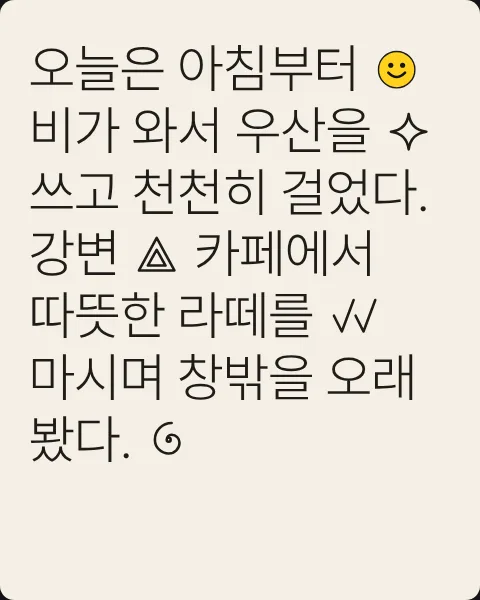
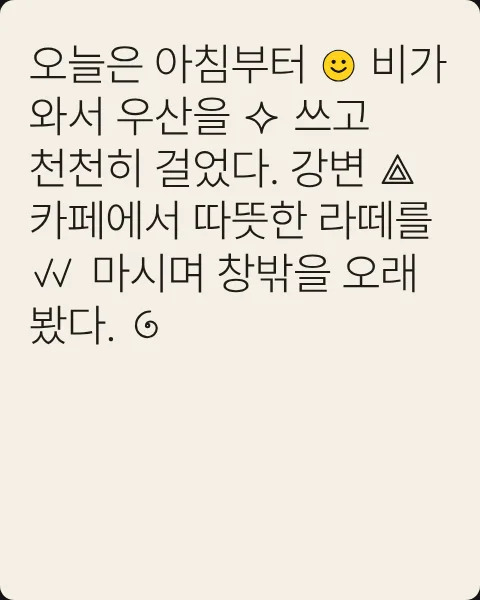
95차: 디자인 템플릿 글자 크기 = 한 장 안에서 채우는 양 5단계(60·72·85·93·100%, 긴 글도 단계마다 바뀜), 라벨 조각 = 2~4어절 조각 · 두 라벨이 한 줄에 엇갈려 놓이기도
Claude-Session: https://claude.ai/code/session_018YFXtycg7XUaka8AzxDZiV

diff --git a/app/new/tpl/label/tpl.js b/app/new/tpl/label/tpl.js
@@ -1,5 +1,5 @@
 // 템플릿 틀: 라벨 조각 (디자인, 11-25 94차). 앤드류 레퍼런스(빨간 바탕 흰 라벨 포스터)의 느낌: 문장마다 끊어 흰 띠 라벨에 담고 자리를 흩어요.
-// 문장 = 줄바꿈 · 문장부호 · '~다/~요' 끝. 라벨 안 줄은 짧게 (셔플마다 조금씩 다르게). 첫 문장은 조금 크게. 굵고 좁게, 줄 간격 빽빽하게.
+// 라벨 = 2~4어절 조각 (95차, 셔플마다 다르게), 문장 끝(줄바꿈 · 문장부호 · '~다/~요')에선 늘 끊어요 → 짧은 글도 여러 조각. 라벨 안 줄은 짧게. 첫 라벨은 조금 크게. 굵고 좁게, 줄 간격 빽빽하게.
 // 자리: 위에서부터 쌓되 왼쪽 · 들여쓰기 · 가운데 · 오른쪽으로 흩고 사이 간격도 랜덤. 셔플 = 자리 · 간격 · 줄 나눔.
 // 색: 바탕 = 조합 배경색, 라벨 = 흰색 (밝은 바탕이면 조합 글자색), 라벨 글자 = 거의 검정 (밝은 바탕이면 바탕색). 날짜 · 장소를 켜면 작은 라벨 하나 (/// 사이).
 // 쓰는 동안(글 상자에 커서)엔 반듯한 글, 키보드를 내리면 라벨 (글 위에 한 겹). 보기 카드 · 저장 그림은 라벨만 보여요. 늘 한 장에 들어가게 작아져요
@@ -29,9 +29,17 @@ function linesOf(s, lim) {
   if (cur) out.push(cur);
   return out;
 }
+// 문장 → 2~4어절 조각 (남은 한 어절은 앞 조각에 붙여요)
+function pieces(text, r) {
+  const out = [];
+  sentences(text).forEach(s => {
+    const ws = s.split(' ');
+    for (let i = 0; i < ws.length;) { let n = 2 + Math.floor(r() * 3); if (ws.length - (i + n) === 1) n++; out.push(ws.slice(i, i + n).join(' ')); i += n; }
+  });
+  return out;
+}
 function layerHtml(text, seed, extra) {
-  const r = rng(((seed || 1) ^ 0x2545f491) >>> 0), list = sentences(text).map((t, i) => [t, i === 0 ? 'big' : '']);
-  const lim = 7 + Math.floor(r() * 4);
+  const r = rng(((seed || 1) ^ 0x2545f491) >>> 0), lim = 7 + Math.floor(r() * 4), list = pieces(text, r).map((t, i) => [t, i === 0 ? 'big' : '']);
   if (extra) list.splice(Math.min(list.length, 1 + Math.floor(r() * 3)), 0, [extra, 'sm']);
   let n = 0;
   return list.map(([t, cls]) => `<div class="lk ${cls}">${(cls === 'sm' ? [t] : linesOf(t, lim)).map(l => `<div class="ln" style="animation-delay:${(n++ * .22).toFixed(2)}s">${esc(l)}</div>`).join('')}</div>`).join('');
@@ -67,7 +75,7 @@ function label(c, { edit = false } = {}) {
 
 // 크기 · 자리: 라벨이 다 들어갈 만큼 크게 (가장 넓은 라벨이 폭 안, 라벨 높이 합이 쓸 수 있는 높이의 80% 안), 그 뒤 위에서부터 흩어 놓아요.
 // 늘 한 장 (넘치면 더 작아져요). 서식 줄 크기(작게 ~ 크게)는 그 위에 곱해요. 쓰는 중 반듯한 글은 읽기 좋은 크기로
-const MUL = { xs: .8, s: .9, m: 1, l: 1.1, xl: 1.2 };
+// 글자 크기 = 채우는 양 (95차): 꽉 차는 크기를 찾은 뒤 하이라이트와 같은 비율을 곱해요
 function fit(el) {
   if (!el) return;
   const p = el.querySelector('.rb.body'); if (!p) return;
@@ -76,21 +84,32 @@ function fit(el) {
   const ex = el.querySelector('.exm'), L = el.classList.contains('empty') && ex ? ex : ovOf(p); if (!L) return;
   el.style.height = Hh + 'px';
   L.style.top = mt * s + 'px'; L.style.height = room + 'px';
-  const ks = [...L.querySelectorAll('.lk')], Lw = L.clientWidth, mul = MUL[el.dataset.size] || 1;
-  let f = 150 * mul * s;
-  const sum = () => ks.reduce((a, k) => a + k.offsetHeight, 0);
-  const set = () => { L.style.fontSize = f + 'px'; return ks.some(k => k.offsetWidth > Lw) || sum() > room * .8; };
+  const ks = [...L.querySelectorAll('.lk')], Lw = L.clientWidth, kf = H.FILL[el.dataset.size] || H.FILL.m, mul = 1;
+  let f = 170 * s;
+  // 줄(행): 라벨 하나, 또는 폭이 되면 두 라벨을 한 줄에 (왼쪽 · 오른쪽, 레퍼런스처럼 여러 조각이 엇갈려요). 짝 지을지는 씨앗으로
+  const r = rng(((+(L.dataset.seed || el.dataset.seed) || 1) ^ 0x68e31da4) >>> 0), pair = ks.map(() => r() < .6);
+  const rows = () => { const out = []; for (let i = 0; i < ks.length; i++) { const a = ks[i], b = ks[i + 1];
+    if (pair[i] && b && !a.classList.contains('big') && a.offsetWidth + b.offsetWidth + Lw * .06 <= Lw) { out.push([a, b]); i++; } else out.push([a]); } return out; };
+  const hOf = row => Math.max(...row.map(k => k.offsetHeight)) * (row.length > 1 ? 1.35 : 1);
+  let R = [];
+  const set = () => { L.style.fontSize = f + 'px'; R = rows(); return ks.some(k => k.offsetWidth > Lw) || R.reduce((a, row) => a + hOf(row), 0) > room * .85; };
   while (set() && f > 8) f *= .94;
-  const r = rng(((+(L.dataset.seed || el.dataset.seed) || 1) ^ 0x68e31da4) >>> 0), hs = ks.map(k => k.offsetHeight), free = Math.max(0, room - sum());
-  const gaps = ks.map(() => .25 + r()), gs = gaps.reduce((a, b) => a + b, 0) || 1, POS = [0, 0, .1, .22, .5, .8, 1];
+  if (kf < 1) { f *= kf; set(); }
+  const hs = R.map(hOf), free = Math.max(0, room - hs.reduce((a, b) => a + b, 0));
+  const gaps = R.map(() => .25 + r()), gs = gaps.slice(0, -1).reduce((a, b) => a + b, 0) || 1, POS = [0, 0, .1, .22, .5, .8, 1];
   let y = 0, prev = -1;
-  ks.forEach((k, i) => {
-    let pi = Math.floor(r() * POS.length); if (pi === prev) pi = (pi + 3) % POS.length; prev = pi;
-    k.style.left = ((Lw - k.offsetWidth) * POS[pi]).toFixed(1) + 'px'; k.style.top = y.toFixed(1) + 'px';
-    y += hs[i] + free * gaps[i] / gs * (i === ks.length - 1 ? 0 : 1);
+  R.forEach((row, i) => {
+    if (row.length === 1) {
+      const k = row[0]; let pi = Math.floor(r() * POS.length); if (pi === prev) pi = (pi + 3) % POS.length; prev = pi;
+      k.style.left = ((Lw - k.offsetWidth) * POS[pi]).toFixed(1) + 'px'; k.style.top = y.toFixed(1) + 'px';
+    } else {
+      const [a, b] = row, slack = Lw - a.offsetWidth - b.offsetWidth, up = r() < .5;
+      a.style.left = (slack * r() * .3).toFixed(1) + 'px'; b.style.left = (Lw - b.offsetWidth - slack * r() * .25).toFixed(1) + 'px';
+      a.style.top = (y + (up ? 0 : hs[i] - a.offsetHeight)).toFixed(1) + 'px'; b.style.top = (y + (up ? hs[i] - b.offsetHeight : 0)).toFixed(1) + 'px';
+      prev = -1;
+    }
+    y += hs[i] + (i < R.length - 1 ? free * gaps[i] / gs : 0);
   });
-  // 남은 간격(마지막 뒤)을 빼고 다시 나눠 위아래를 꽉 채워요
-  const last = ks.at(-1); if (last && ks.length > 1) { const extra = room - (parseFloat(last.style.top) + hs.at(-1)), sh = extra / (ks.length - 1); ks.forEach((k, i) => k.style.top = (parseFloat(k.style.top) + sh * i).toFixed(1) + 'px'); }
   p.style.fontSize = (Math.min(f, 76 * mul * s)).toFixed(1) + 'px';
   p.style.marginTop = mt * s + 'px';
 }

diff --git a/app/new/tpl/hilite/tpl.js b/app/new/tpl/hilite/tpl.js
@@ -76,7 +76,10 @@ function hilite(c, { edit = false } = {}) {
 // 글자 크기: 글 길이에 따라 저절로 (짧으면 크게, 길면 작게 빽빽하게). 글자 수 구간으로만 바뀌어서 쓰는 동안 자주 흔들리지 않아요.
 // 서식 줄의 크기(작게 ~ 크게)는 그 위에 곱해요. 한 장을 넘으면 카드가 길어지고 저장할 때 장으로 나뉘어요 (멤피스 문장과 같아요)
 const STEP = [[24, 124], [48, 108], [90, 92], [150, 78], [240, 66], [Infinity, 58]];
-const MUL = { xs: .8, s: .9, m: 1, l: 1.12, xl: 1.24 };
+// 글자 크기 5단계 (95차, 앤드류): 한 장 안에서 '채우는 양'. 먼저 한 장에 들어가는 가장 큰 크기를 찾고(짧은 글은 위 한계까지), 거기에 곱해요.
+// 그래서 글이 길어도 단계마다 늘 눈에 띄게 달라요 (예전엔 크게 해도 넘치면 도로 줄어서 안 바뀌었어요). 기호 문장 · 글 탑 · 라벨 조각도 이 값을 써요
+export const FILL = { xs: .6, s: .72, m: .85, l: .93, xl: 1 };
+const CAP = 1.18;   // 짧은 글 위 한계 = 길이 구간 크기 × 1.18 (가장 크게 = 이 크기)
 const SAFE916 = [186, 358];   // 9:16 스토리 안전 영역 (위 13% · 아래 22%)
 function margins(el) {
   const dp = el.dataset.dp, sg = el.classList.contains('hsg');
@@ -91,12 +94,13 @@ function fit(el) {
   const [mt, mb] = margins(el);
   const ex = el.querySelector('.exm'), box = ex && el.classList.contains('empty') ? ex : p;
   const n = box.textContent.replace(/\s+/g, '').length, sz = el.closest('[data-size]')?.dataset.size;
-  const mul = MUL[el.dataset.size || sz] || 1;
-  let f = STEP.find(([max]) => n <= max)[1] * mul;
+  const k = FILL[el.dataset.size || sz] || FILL.m;
+  let f = STEP.find(([max]) => n <= max)[1] * CAP;
   p.style.marginBottom = px(mb);
   const set = () => { p.style.fontSize = px(f); if (ex) ex.style.fontSize = p.style.fontSize; return box.offsetHeight + (mt + mb) * s; };
   let need = set();
-  while (need > H + 1 && f > 50 * mul) { f = Math.max(50 * mul, f * .94); need = set(); }   // 한 장에 안 들어가면 조금씩 작게 (가장 작은 크기에서도 넘치면 장으로)
+  while (need > H + 1 && f > 50) { f = Math.max(50, f * .94); need = set(); }   // 한 장에 들어가는 가장 큰 크기 (가장 작은 크기에서도 넘치면 장으로)
+  if (k < 1) { f = Math.max(36, f * k); need = set(); }
   let top = mt * s;
   if (need > H + 1) el.style.height = Math.ceil(need) + 'px';
   else {
@@ -114,6 +118,6 @@ export default {
   datePos: 'bottom',
   blank: () => ({ html: '', seed: Math.floor(Math.random() * 1e9), size: 'm', align: { h: 'l', v: 't' }, datePos: 'bottom' }),
   render: (c, o) => { const el = hilite(c, o); el.dataset.size = c.size || 'm'; return el; },
-  fit, margins, place,
+  fit, margins, place, FILL,
   tone: c => comboOf(c).bg,
 };

diff --git a/app/new/tpl/tower/tpl.js b/app/new/tpl/tower/tpl.js
@@ -72,18 +72,19 @@ function tower(c, { edit = false } = {}) {
 
 // 크기: 탑이 카드 높이(9:16은 안전 영역 안)에 들어가고 덩어리가 좌우로 넘치지 않을 만큼 크게. 가장 작아도 넘치면 카드가 길어지고 저장할 때 장으로.
 // 서식 줄 크기(작게 ~ 크게)는 그 위에 곱해요. 위아래 가운데. 다 재고 나면 흐르는 모션용 탑 줄(.twl)을 만들어요
-const MUL = { xs: .8, s: .9, m: 1, l: 1.1, xl: 1.2 };
+// 글자 크기 = 채우는 양 (95차): 꽉 차는 크기를 찾은 뒤 하이라이트와 같은 비율을 곱해요
 function fit(el) {
   if (!el) return;
   const p = el.querySelector('.rb.body'); if (!p) return;
   const W = el.clientWidth; if (!W) return;
   const s = W / 1080, Hh = W * (+el.dataset.ar || 1.25), [mt, mb] = H.margins(el), room = Hh - (mt + mb) * s;
   const ov = ovOf(p), ex = el.querySelector('.exm'), box = el.classList.contains('empty') && ex ? ex : ov || p, tw = box.querySelector('.tw');
-  const mul = MUL[el.dataset.size] || 1, R = el.getBoundingClientRect();
+  const k = H.FILL[el.dataset.size] || H.FILL.m, mul = 1, R = el.getBoundingClientRect();
   const over = () => tw && [...tw.children].some(k => { const q = k.getBoundingClientRect(); return q.left < R.left + W * .05 || q.right > R.right - W * .05; });
-  let f = 150 * mul;
+  let f = 170;
   const set = () => { [box, ov].forEach(x => { if (x) x.style.fontSize = px(f); }); return box.offsetHeight; };
   while ((set() > room || over()) && f > 50) f *= .95;
+  if (k < 1) { f = Math.max(36, f * k); set(); }
   if (ov || ex) p.style.fontSize = px(Math.min(f, 76 * mul));   // 쓰는 중 반듯한 글은 읽기 좋은 크기로
   const h = box.offsetHeight, need = h + (mt + mb) * s;
   let top = mt * s;

diff --git a/app/new/tpl/symbol/tpl.js b/app/new/tpl/symbol/tpl.js
@@ -92,18 +92,18 @@ function symbol(c, { edit = false } = {}) {
 }
 
 // 크기: 레퍼런스처럼 카드를 꽉 채우게 (크게 시작해 들어갈 때까지 줄여요, 아주 짧은 글도 너무 커지지 않게 위 한계). 기호까지 든 글(쓰는 중엔 위에 깐 한 겹)로 재요
-const MUL = { xs: .8, s: .9, m: 1, l: 1.12, xl: 1.24 };
 function fit(el) {
   const p = el.querySelector('.rb.body'); if (!p) return;
   const W = el.clientWidth; if (!W) return;
   const s = W / 1080, Hh = W * (+el.dataset.ar || 1.25), [mt, mb] = H.margins(el);
   const ov = ovOf(p), ex = el.querySelector('.exm'), empty = el.classList.contains('empty'), box = empty && ex ? ex : ov || p;
-  const mul = MUL[el.dataset.size] || 1;
-  let f = 190 * mul;
+  const k = H.FILL[el.dataset.size] || H.FILL.m;   // 글자 크기 = 채우는 양 (95차)
+  let f = 220;
   p.style.marginBottom = px(mb);
   const set = () => { [p, ov, ex].forEach(x => { if (x) x.style.fontSize = px(f); }); return box.offsetHeight + (mt + mb) * s; };
   let need = set();
-  while (need > Hh + 1 && f > 50 * mul) { f = Math.max(50 * mul, f * .95); need = set(); }
+  while (need > Hh + 1 && f > 50) { f = Math.max(50, f * .95); need = set(); }
+  if (k < 1) { f = Math.max(36, f * k); need = set(); }
   let top = mt * s;
   if (need > Hh + 1) el.style.height = Math.ceil(need) + 'px';
   else {

diff --git a/app/new/js/main.js b/app/new/js/main.js
@@ -1983,7 +1983,7 @@ const REC_T = { 밤: '밤에 쓰기 좋은', 비: '비 오는 날엔', 눈: '눈
 const WXK = { sun: '맑음', suncloud: '구름 조금', cloud: '흐림', rain: '비', snow: '눈', thunder: '천둥', fog: '안개' };
 const dayLine = (now = new Date()) => { let w = ''; try { const x = JSON.parse(localStorage.getItem('daytale.wx') || 'null'); if (x && Date.now() - x.at < 3 * 3600e3 && WXK[x.kind]) w = ` · ${WXK[x.kind]}${x.temp != null ? ` ${x.temp}°` : ''}`; } catch {} return `${now.getMonth() + 1}월 ${now.getDate()}일 ${'일월화수목금토'[now.getDay()]}요일${w}`; };
 // 78차: 새 버전 확인. 앱으로 돌아올 때(다른 앱 갔다 오기) version.txt가 지금과 다르면 저절로 새로 고쳐요. 쓰는 중엔 안 해요
-const BUILD = '94', BUILD_TAG = '11-25 94차';
+const BUILD = '95', BUILD_TAG = '11-25 95차';
 let verAt = 0;
 const checkVer = () => {
   if (document.hidden || Date.now() - verAt < 20e3) return; verAt = Date.now();
